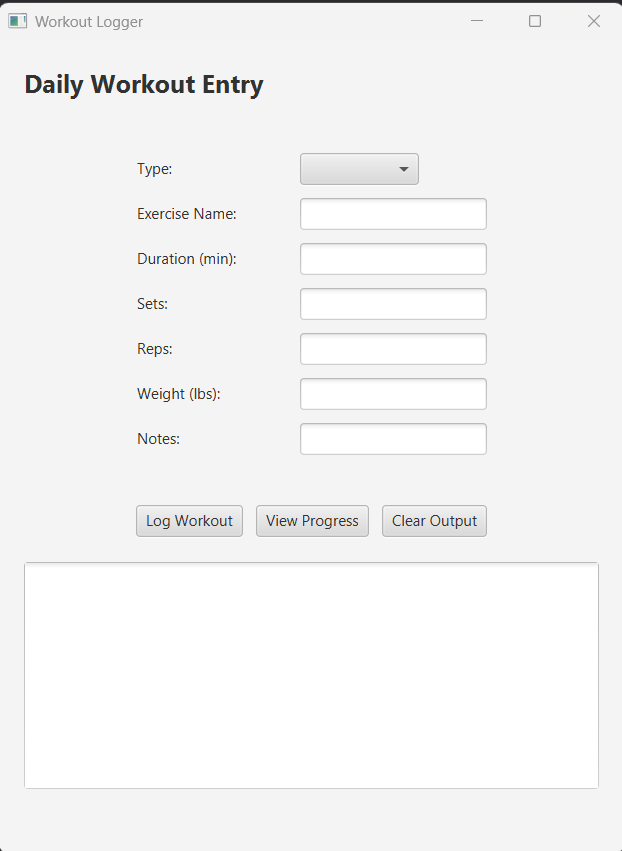
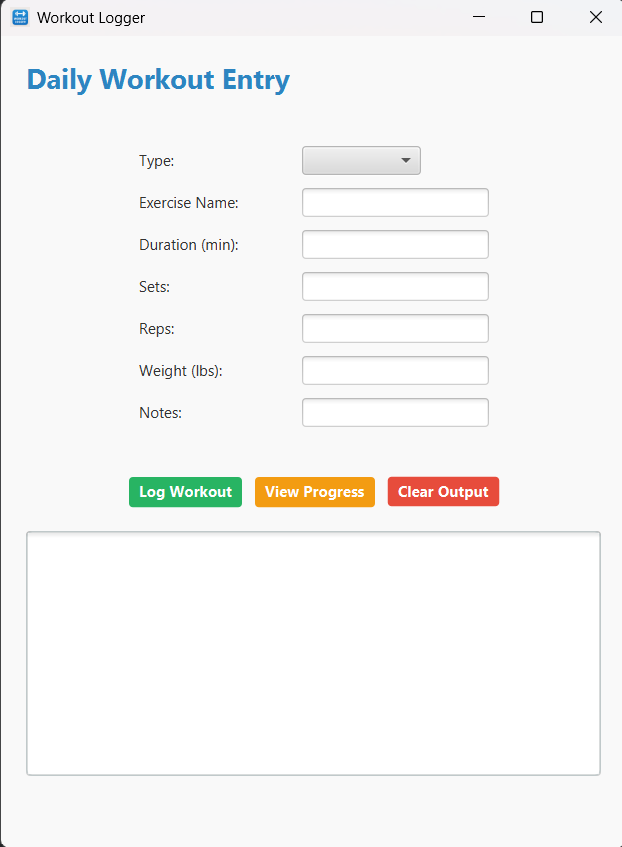
Final update before submission

diff --git a/src/styles.css b/src/styles.css
@@ -1,0 +1,47 @@
+.root {
+    -fx-background-color: #F9F9F9;
+    -fx-font-family: "Segoe UI", sans-serif;
+}
+
+.title-label {
+    -fx-text-fill: #2E86C1;
+    -fx-font-size: 22px;
+    -fx-font-weight: bold;
+}
+
+.log-button {
+    -fx-background-color: #28B463; /* Green */
+    -fx-text-fill: white;
+    -fx-font-weight: bold;
+}
+
+.progress-button {
+    -fx-background-color: #F39C12; /* Orange */
+    -fx-text-fill: white;
+    -fx-font-weight: bold;
+}
+
+.clear-button {
+    -fx-background-color: #E74C3C; /* Red */
+    -fx-text-fill: white;
+    -fx-font-weight: bold;
+}
+
+.log-button:hover {
+    -fx-background-color: #239B56;
+}
+
+.progress-button:hover {
+    -fx-background-color: #D68910;
+}
+
+.clear-button:hover {
+    -fx-background-color: #C0392B;
+}
+
+.text-area {
+    -fx-control-inner-background: #ffffff;
+    -fx-border-color: #BFC9CA;
+    -fx-border-radius: 5;
+    -fx-font-size: 13px;
+}

diff --git a/src/workoutlogger/WorkoutLoggerApp.java b/src/workoutlogger/WorkoutLoggerApp.java
@@ -5,6 +5,7 @@ import javafx.geometry.Insets;
 import javafx.geometry.Pos;
 import javafx.scene.Scene;
 import javafx.scene.control.*;
+import javafx.scene.image.Image;
 import javafx.scene.layout.*;
 import javafx.stage.Stage;
 
@@ -14,10 +15,10 @@ public class WorkoutLoggerApp extends Application {
     @Override
     public void start(Stage primaryStage) {
         primaryStage.setTitle("Workout Logger");
+        primaryStage.getIcons().add(new Image(getClass().getResource("/images/icon.png").toString()));
 
-        // Labels and Input Fields
         Label titleLabel = new Label("Daily Workout Entry");
-        titleLabel.setStyle("-fx-font-size: 20px; -fx-font-weight: bold;");
+        titleLabel.getStyleClass().add("title-label");
 
         Label typeLabel = new Label("Type:");
         ComboBox<String> typeBox = new ComboBox<>();
@@ -41,22 +42,24 @@ public class WorkoutLoggerApp extends Application {
         Label notesLabel = new Label("Notes:");
         TextField notesField = new TextField();
 
-        // Buttons
         Button logButton = new Button("Log Workout");
         Button viewProgressButton = new Button("View Progress");
         Button clearButton = new Button("Clear Output");
 
+        logButton.getStyleClass().add("log-button");
+        viewProgressButton.getStyleClass().add("progress-button");
+        clearButton.getStyleClass().add("clear-button");
+
         TextArea outputArea = new TextArea();
         outputArea.setEditable(false);
+        outputArea.getStyleClass().add("text-area");
 
-        // Layout: GridPane for Inputs
         GridPane inputGrid = new GridPane();
         inputGrid.setAlignment(Pos.CENTER);
         inputGrid.setPadding(new Insets(20));
         inputGrid.setHgap(10);
         inputGrid.setVgap(10);
 
-        // Label Widths
         typeLabel.setMinWidth(120);
         nameLabel.setMinWidth(120);
         durationLabel.setMinWidth(120);
@@ -65,39 +68,22 @@ public class WorkoutLoggerApp extends Application {
         weightLabel.setMinWidth(120);
         notesLabel.setMinWidth(120);
 
-        // Add to Grid
-        inputGrid.add(typeLabel, 0, 0);
-        inputGrid.add(typeBox, 1, 0);
+        inputGrid.add(typeLabel, 0, 0);         inputGrid.add(typeBox, 1, 0);
+        inputGrid.add(nameLabel, 0, 1);         inputGrid.add(nameField, 1, 1);
+        inputGrid.add(durationLabel, 0, 2);     inputGrid.add(durationField, 1, 2);
+        inputGrid.add(setsLabel, 0, 3);         inputGrid.add(setsField, 1, 3);
+        inputGrid.add(repsLabel, 0, 4);         inputGrid.add(repsField, 1, 4);
+        inputGrid.add(weightLabel, 0, 5);       inputGrid.add(weightField, 1, 5);
+        inputGrid.add(notesLabel, 0, 6);        inputGrid.add(notesField, 1, 6);
 
-        inputGrid.add(nameLabel, 0, 1);
-        inputGrid.add(nameField, 1, 1);
-
-        inputGrid.add(durationLabel, 0, 2);
-        inputGrid.add(durationField, 1, 2);
-
-        inputGrid.add(setsLabel, 0, 3);
-        inputGrid.add(setsField, 1, 3);
-
-        inputGrid.add(repsLabel, 0, 4);
-        inputGrid.add(repsField, 1, 4);
-
-        inputGrid.add(weightLabel, 0, 5);
-        inputGrid.add(weightField, 1, 5);
-
-        inputGrid.add(notesLabel, 0, 6);
-        inputGrid.add(notesField, 1, 6);
-
-        // Button Layout
         HBox buttonBox = new HBox(10);
         buttonBox.setAlignment(Pos.CENTER);
         buttonBox.getChildren().addAll(logButton, viewProgressButton, clearButton);
 
-        // Main Layout
         VBox mainLayout = new VBox(20);
         mainLayout.setPadding(new Insets(20));
         mainLayout.getChildren().addAll(titleLabel, inputGrid, buttonBox, outputArea);
 
-        // Button Actions
         logButton.setOnAction(e -> {
             try {
                 Workout workout = new Workout();
@@ -113,29 +99,24 @@ public class WorkoutLoggerApp extends Application {
                 log.addWorkout(workout);
                 outputArea.appendText("Workout logged: " + workout + "\n");
 
-                // Clear fields after logging
                 typeBox.setValue(null);
-                nameField.clear();
-                durationField.clear();
-                setsField.clear();
-                repsField.clear();
-                weightField.clear();
-                notesField.clear();
+                nameField.clear(); durationField.clear(); setsField.clear();
+                repsField.clear(); weightField.clear(); notesField.clear();
             } catch (Exception ex) {
                 outputArea.appendText("Error: Invalid input.\n");
             }
         });
 
-        viewProgressButton.setOnAction(e -> {
-            outputArea.appendText("\nWeekly Progress:\n");
-            outputArea.appendText(log.getWeeklySummary() + "\n");
-        });
+        viewProgressButton.setOnAction(e ->
+                outputArea.appendText("\nWeekly Progress:\n" + log.getWeeklySummary() + "\n")
+        );
 
         clearButton.setOnAction(e -> outputArea.clear());
 
-        // Set and Show Scene
-        Scene scene = new Scene(mainLayout, 500, 650); // Slightly taller to fit extra field
+        Scene scene = new Scene(mainLayout, 500, 650);
+        scene.getStylesheets().add(getClass().getResource("/styles.css").toExternalForm());
         primaryStage.setScene(scene);
+        primaryStage.centerOnScreen();
         primaryStage.show();
     }
 
